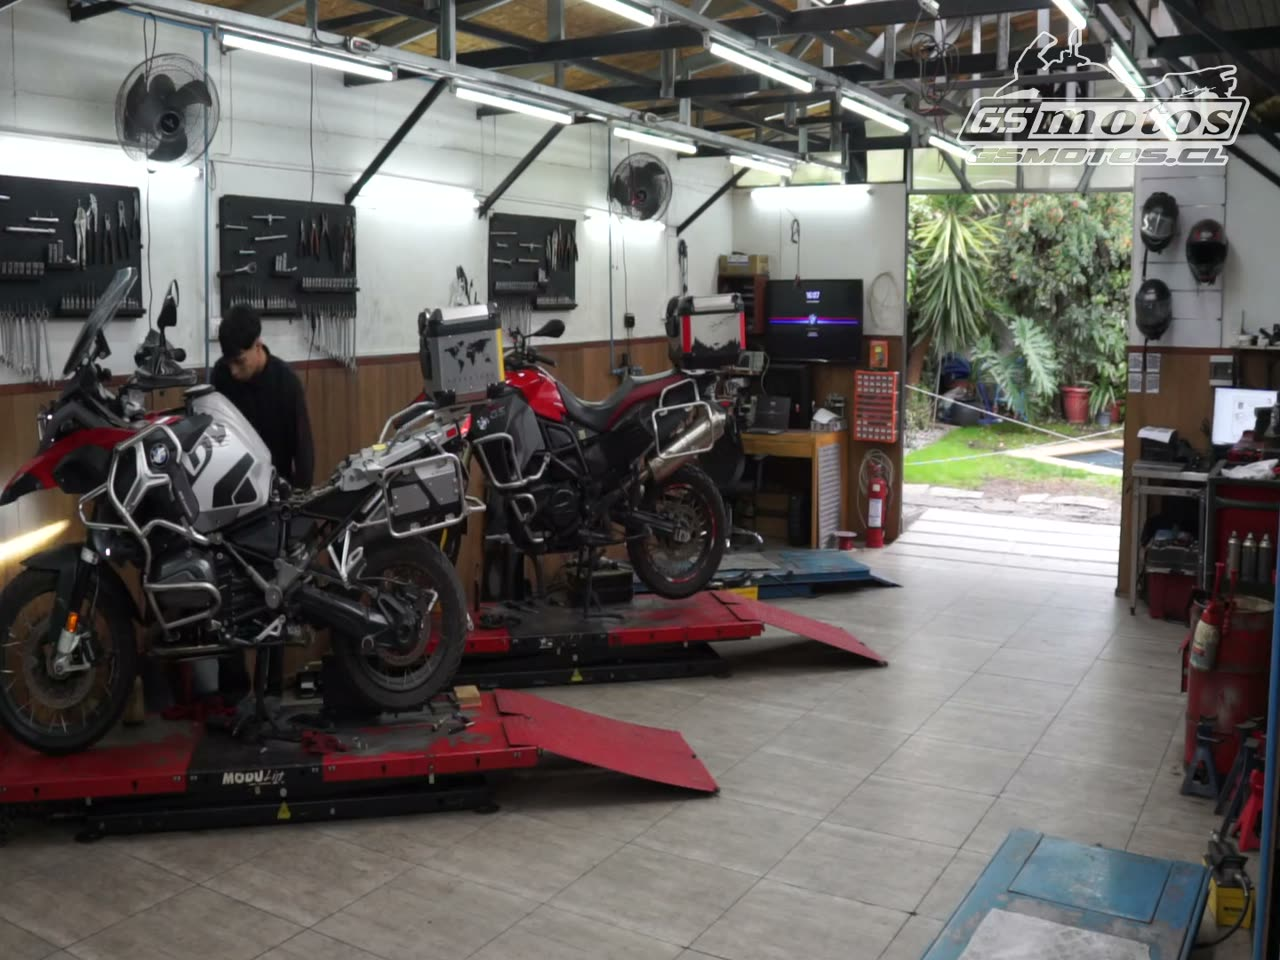
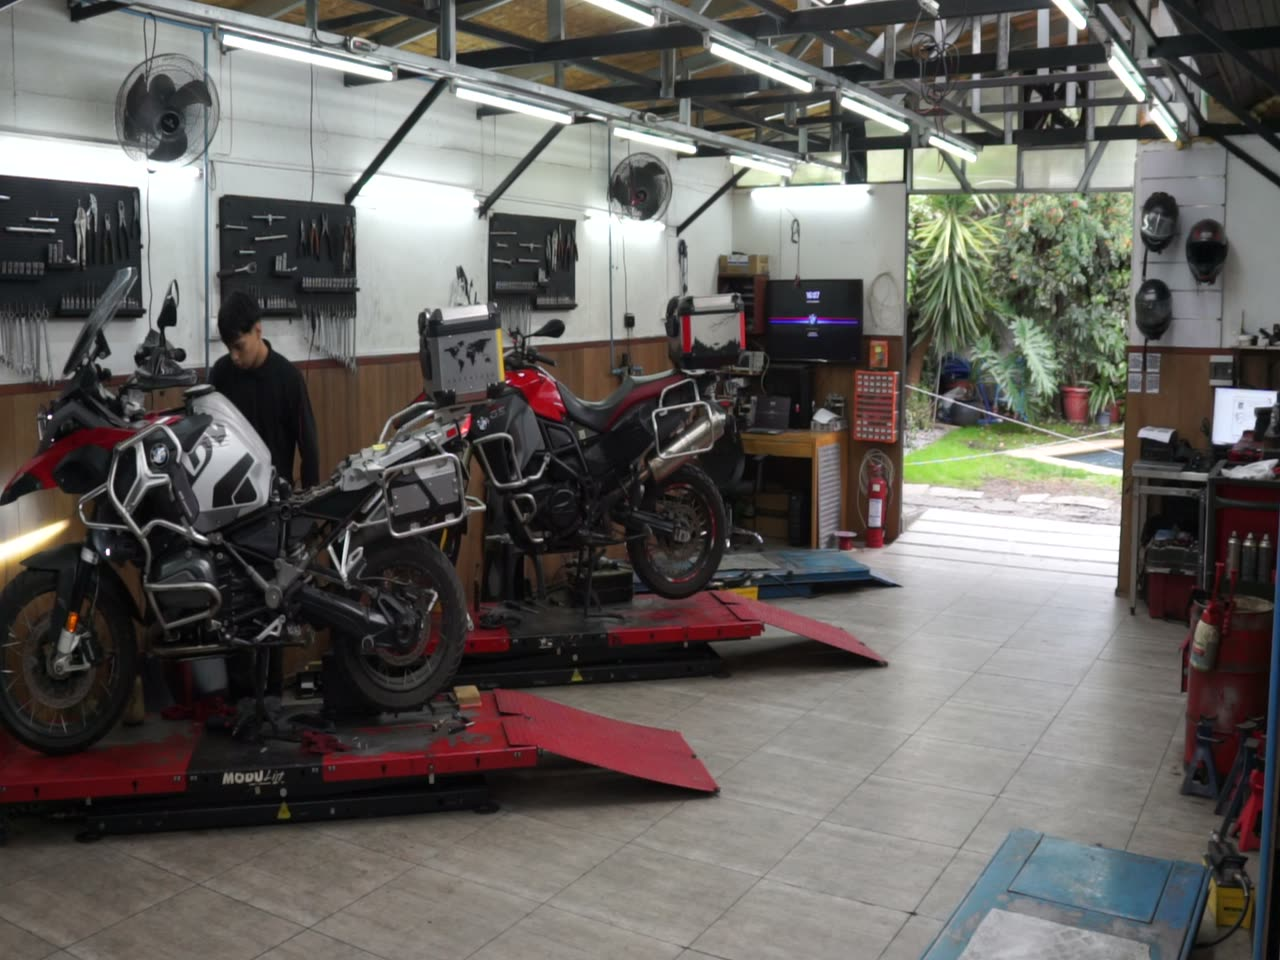
Hero: video más claro en desktop y poster sin marca de agua
- Desktop: el velo negro parejo baja de 0.22 a 0.06, el degradado del
  texto es más suave y termina antes (66% en vez de 74%), y el video
  lleva +10% de brillo — el cliente lo encontraba muy oscuro.
- Poster: se regenera desde el material original sin la marca de agua.
  En mobile el video no la lleva, así que mientras cargaba se veían dos
  logos y uno desaparecía al arrancar el video.

diff --git a/components/home/HeroBanner.jsx b/components/home/HeroBanner.jsx
@@ -33,7 +33,7 @@ export default function HeroBanner({ onSelect }) {
           playsInline
           preload="auto"
           poster="/images/hero-timelapse-poster.jpg"
-          className="absolute inset-0 block h-full w-full object-cover"
+          className="absolute inset-0 block h-full w-full object-cover sm:brightness-110"
         >
           {/* Timelapse del taller armado con los clips originales del cliente
               (~/Desktop/gsmotos/MP_ROOT): solo los tramos con más gente
@@ -55,7 +55,10 @@ export default function HeroBanner({ onSelect }) {
         />
       </div>
 
-      <div className="pointer-events-none absolute inset-0 hidden bg-black/[0.22] sm:block" />
+      {/* Velo y degradado más suaves que antes (0.22 → 0.06, degradado hasta
+          el 66% en vez del 74%): el cliente encontraba el video muy oscuro
+          en el computador. El degradado solo tiene que cubrir el texto. */}
+      <div className="pointer-events-none absolute inset-0 hidden bg-black/[0.06] sm:block" />
       {/* Antes acá iba una tarjeta blanca sólida (clip-path diagonal) tapando
           ~40% del video para que el texto quedara legible — el cliente pidió
           que se viera más el video. Se reemplaza por un degradado oscuro de
@@ -64,7 +67,7 @@ export default function HeroBanner({ onSelect }) {
           incluso detrás del texto. */}
       <div
         className="pointer-events-none absolute inset-0 hidden sm:block"
-        style={{ background: "linear-gradient(90deg, rgba(5,6,7,0.88) 0%, rgba(5,6,7,0.68) 32%, rgba(5,6,7,0.3) 56%, rgba(5,6,7,0) 74%)" }}
+        style={{ background: "linear-gradient(90deg, rgba(5,6,7,0.8) 0%, rgba(5,6,7,0.58) 30%, rgba(5,6,7,0.16) 52%, rgba(5,6,7,0) 66%)" }}
       />
 
       {/* Sin menú hamburguesa en el inicio (pedido del cliente): acá el menú
